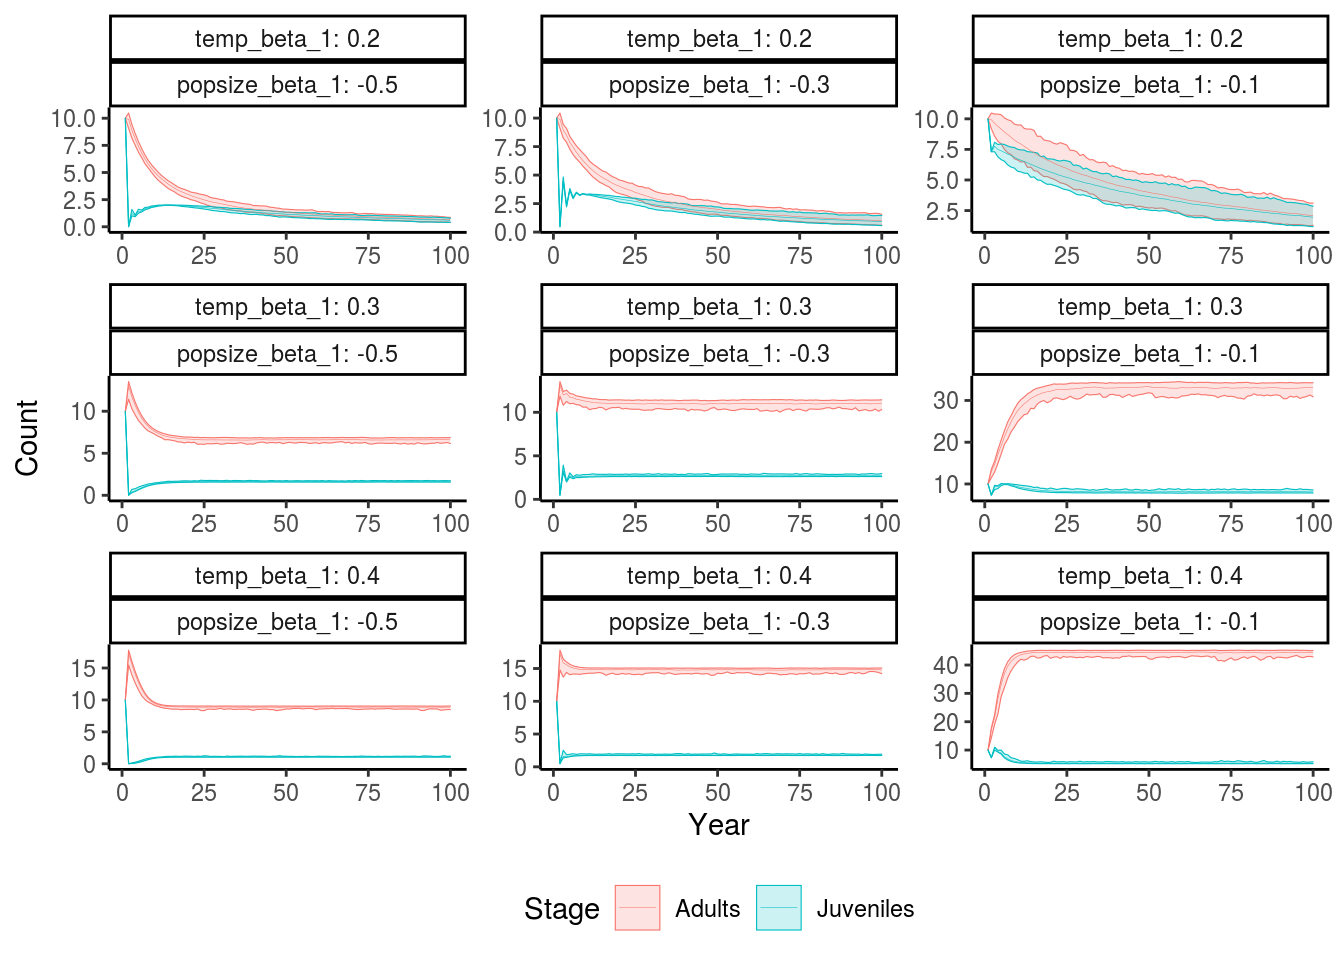
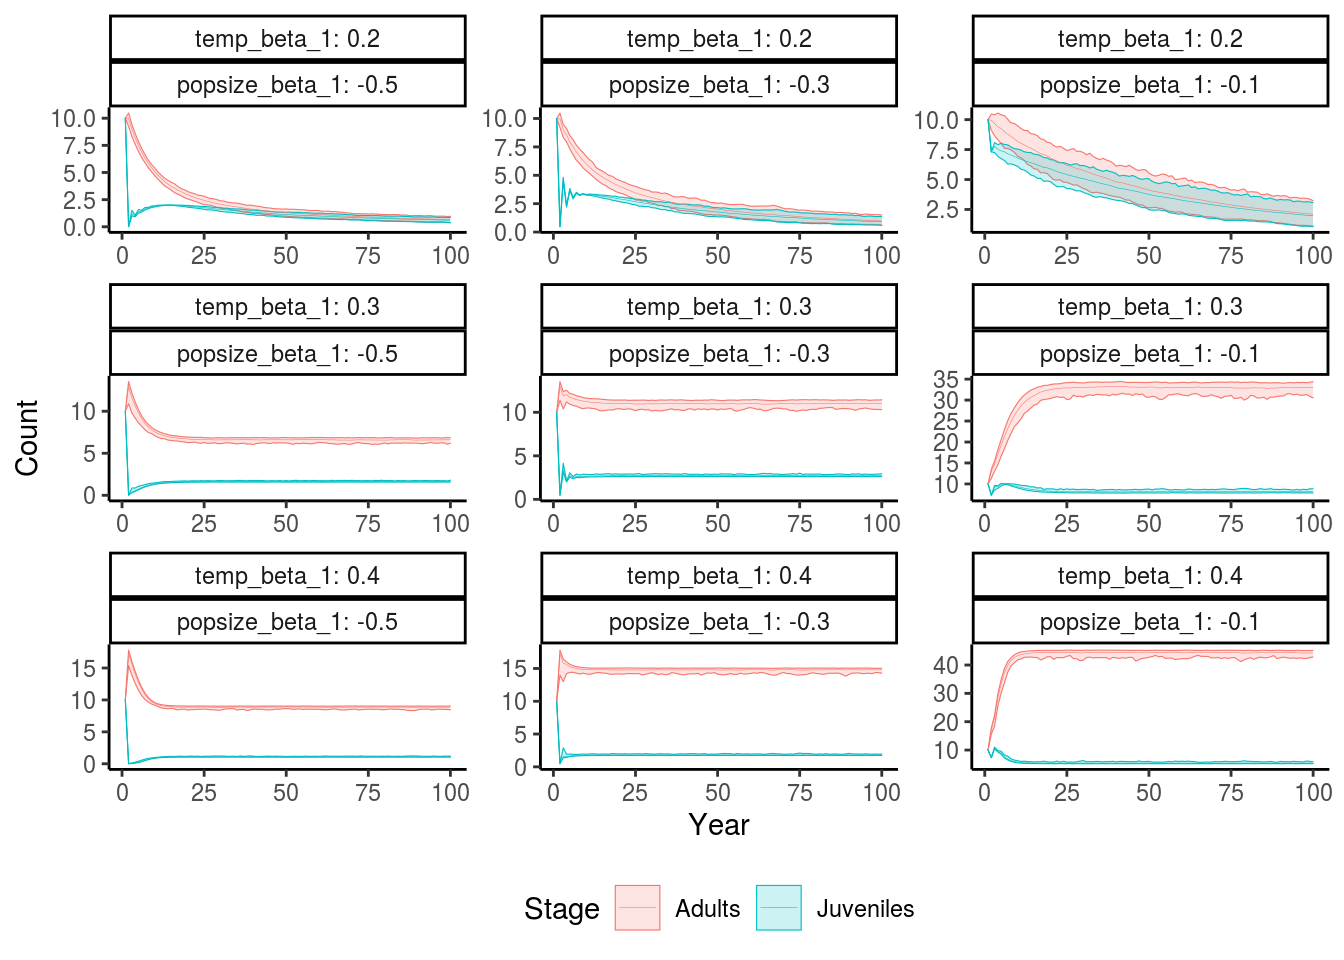
update

diff --git a/post/2021-06-27-sensitivity/index.html b/post/2021-06-27-sensitivity/index.html
@@ -518,8 +518,8 @@ project population dynamics into the future.</p>
 <span id="cb7-36"><a href="#cb7-36"></a>  , <span class="dt">popsize_beta_2 =</span> <span class="dv">0</span></span>
 <span id="cb7-37"><a href="#cb7-37"></a>)</span></code></pre></div>
 <pre><code>##      [,1]      [,2]      [,3]      [,4]     [,5]
-## [1,]   10  7.310586  9.432219  9.431392 10.01763
-## [2,]   10 13.018077 14.650383 17.097022 19.41975</code></pre>
+## [1,]   10  7.310586  9.324722  9.426559 10.01920
+## [2,]   10 12.789654 14.520515 17.094480 19.01076</code></pre>
 </div>
 <div id="sensitivity-analysis" class="section level1">
 <h1>Sensitivity Analysis</h1>
@@ -614,13 +614,13 @@ access simulations as we wish.</p>
 ##  1         0.2           -0.1         1 Juveniles     1 10   
 ##  2         0.2           -0.1         1 Adults        1 10   
 ##  3         0.2           -0.1         1 Juveniles     2  7.31
-##  4         0.2           -0.1         1 Adults        2 10.4 
-##  5         0.2           -0.1         1 Juveniles     3  8.07
-##  6         0.2           -0.1         1 Adults        3 10.2 
-##  7         0.2           -0.1         1 Juveniles     4  7.79
-##  8         0.2           -0.1         1 Adults        4  9.45
-##  9         0.2           -0.1         1 Juveniles     5  7.39
-## 10         0.2           -0.1         1 Adults        5  9.54
+##  4         0.2           -0.1         1 Adults        2  9.84
+##  5         0.2           -0.1         1 Juveniles     3  7.71
+##  6         0.2           -0.1         1 Adults        3  9.10
+##  7         0.2           -0.1         1 Juveniles     4  7.18
+##  8         0.2           -0.1         1 Adults        4  8.96
+##  9         0.2           -0.1         1 Juveniles     5  7.17
+## 10         0.2           -0.1         1 Adults        5  8.98
 ## # … with 59,990 more rows</code></pre>
 <div class="sourceCode" id="cb15"><pre class="sourceCode r"><code class="sourceCode r"><span id="cb15-1"><a href="#cb15-1"></a><span class="co"># Take a subset and unnest</span></span>
 <span id="cb15-2"><a href="#cb15-2"></a>design <span class="op">%&gt;%</span></span>
@@ -632,13 +632,13 @@ access simulations as we wish.</p>
 ##  1         0.2           -0.5         1 Juveniles     1 10      
 ##  2         0.2           -0.5         1 Adults        1 10      
 ##  3         0.2           -0.5         1 Juveniles     2  0.00911
-##  4         0.2           -0.5         1 Adults        2 10.0    
-##  5         0.2           -0.5         1 Juveniles     3  1.18   
-##  6         0.2           -0.5         1 Adults        3  9.01   
-##  7         0.2           -0.5         1 Juveniles     4  0.986  
-##  8         0.2           -0.5         1 Adults        4  8.26   
-##  9         0.2           -0.5         1 Juveniles     5  1.36   
-## 10         0.2           -0.5         1 Adults        5  7.58   
+##  4         0.2           -0.5         1 Adults        2 10.5    
+##  5         0.2           -0.5         1 Juveniles     3  1.00   
+##  6         0.2           -0.5         1 Adults        3  9.43   
+##  7         0.2           -0.5         1 Juveniles     4  0.925  
+##  8         0.2           -0.5         1 Adults        4  8.51   
+##  9         0.2           -0.5         1 Juveniles     5  1.29   
+## 10         0.2           -0.5         1 Adults        5  7.73   
 ## # … with 19,990 more rows</code></pre>
 </div>
 <div id="visualization" class="section level1">
@@ -658,9 +658,9 @@ dataframe.</p>
 ## 1         0.2           -0.1         1 Juveniles     1 10   
 ## 2         0.2           -0.1         1 Adults        1 10   
 ## 3         0.2           -0.1         1 Juveniles     2  7.31
-## 4         0.2           -0.1         1 Adults        2 10.4 
-## 5         0.2           -0.1         1 Juveniles     3  8.07
-## 6         0.2           -0.1         1 Adults        3 10.2</code></pre>
+## 4         0.2           -0.1         1 Adults        2  9.84
+## 5         0.2           -0.1         1 Juveniles     3  7.71
+## 6         0.2           -0.1         1 Adults        3  9.10</code></pre>
 <p>Once unnested, we can calculate summary statistics across replicates for each
 specific parameter combination.</p>
 <div class="sourceCode" id="cb19"><pre class="sourceCode r"><code class="sourceCode r"><span id="cb19-1"><a href="#cb19-1"></a><span class="co"># Average counts of juveniles and adults across replicates and calculate</span></span>
@@ -680,11 +680,11 @@ specific parameter combination.</p>
 ##   temp_beta_1 popsize_beta_1 Stage   Year Lower Upper Count
 ##         &lt;dbl&gt;          &lt;dbl&gt; &lt;fct&gt;  &lt;dbl&gt; &lt;dbl&gt; &lt;dbl&gt; &lt;dbl&gt;
 ## 1         0.2           -0.5 Adults     1 10    10    10   
-## 2         0.2           -0.5 Adults     2  9.07 10.5   9.89
-## 3         0.2           -0.5 Adults     3  8.17  9.43  8.90
-## 4         0.2           -0.5 Adults     4  7.51  8.60  8.12
-## 5         0.2           -0.5 Adults     5  6.87  7.85  7.40
-## 6         0.2           -0.5 Adults     6  6.36  7.20  6.79</code></pre>
+## 2         0.2           -0.5 Adults     2  9.25 10.5   9.99
+## 3         0.2           -0.5 Adults     3  8.32  9.43  8.99
+## 4         0.2           -0.5 Adults     4  7.60  8.61  8.20
+## 5         0.2           -0.5 Adults     5  6.95  7.86  7.48
+## 6         0.2           -0.5 Adults     6  6.37  7.21  6.86</code></pre>
 <p>Finally, we can plot the population dynamics for each of the parameter
 combinations.</p>
 <div class="sourceCode" id="cb21"><pre class="sourceCode r"><code class="sourceCode r"><span id="cb21-1"><a href="#cb21-1"></a><span class="co"># Plot</span></span>
